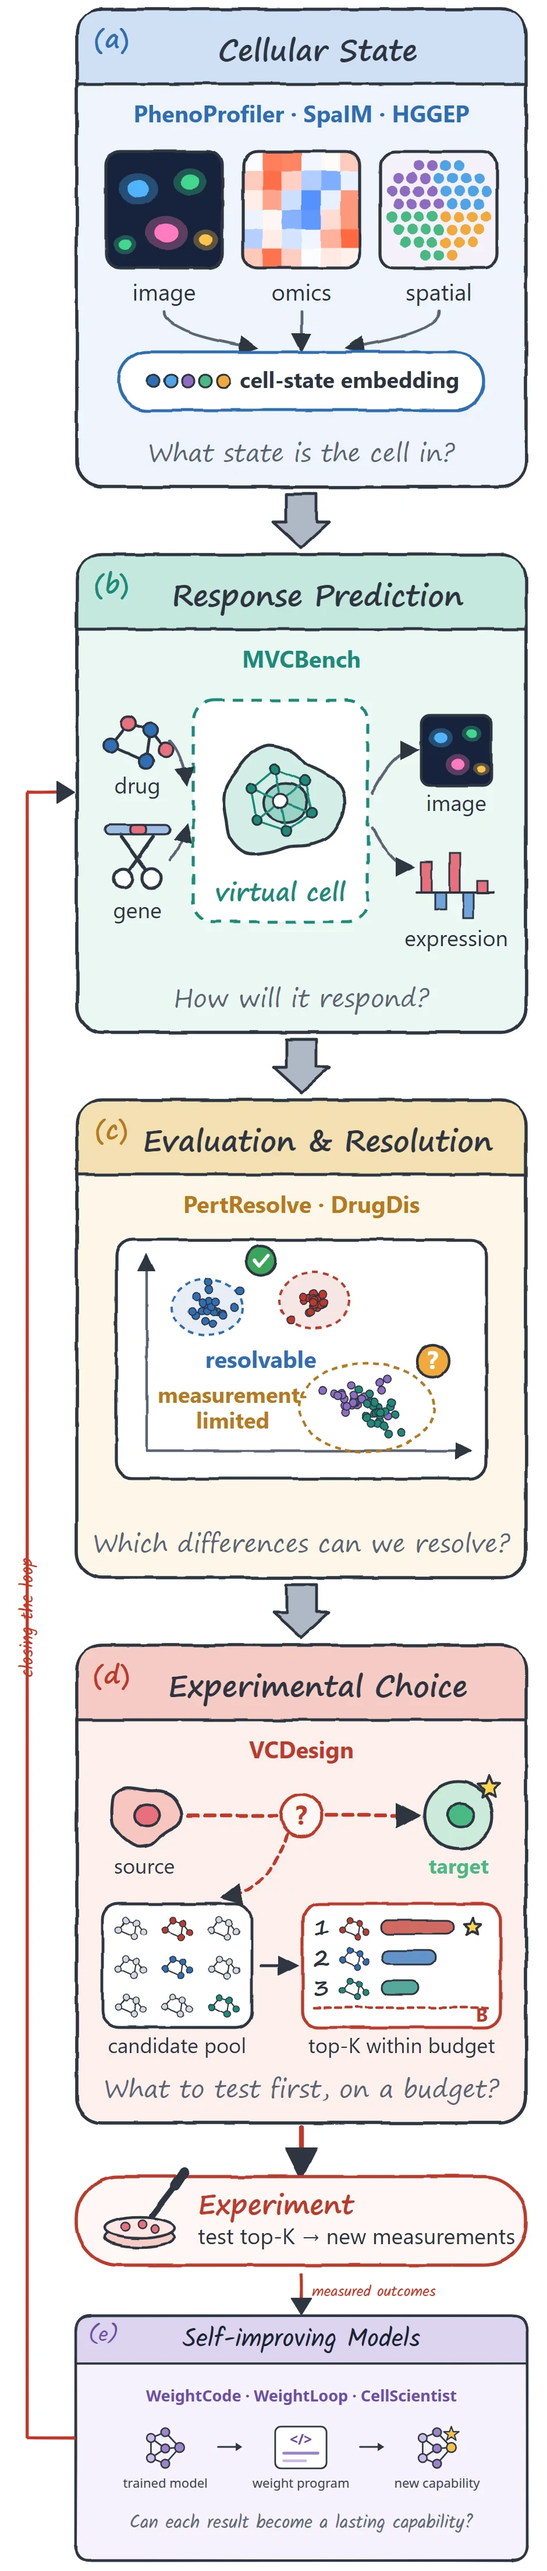
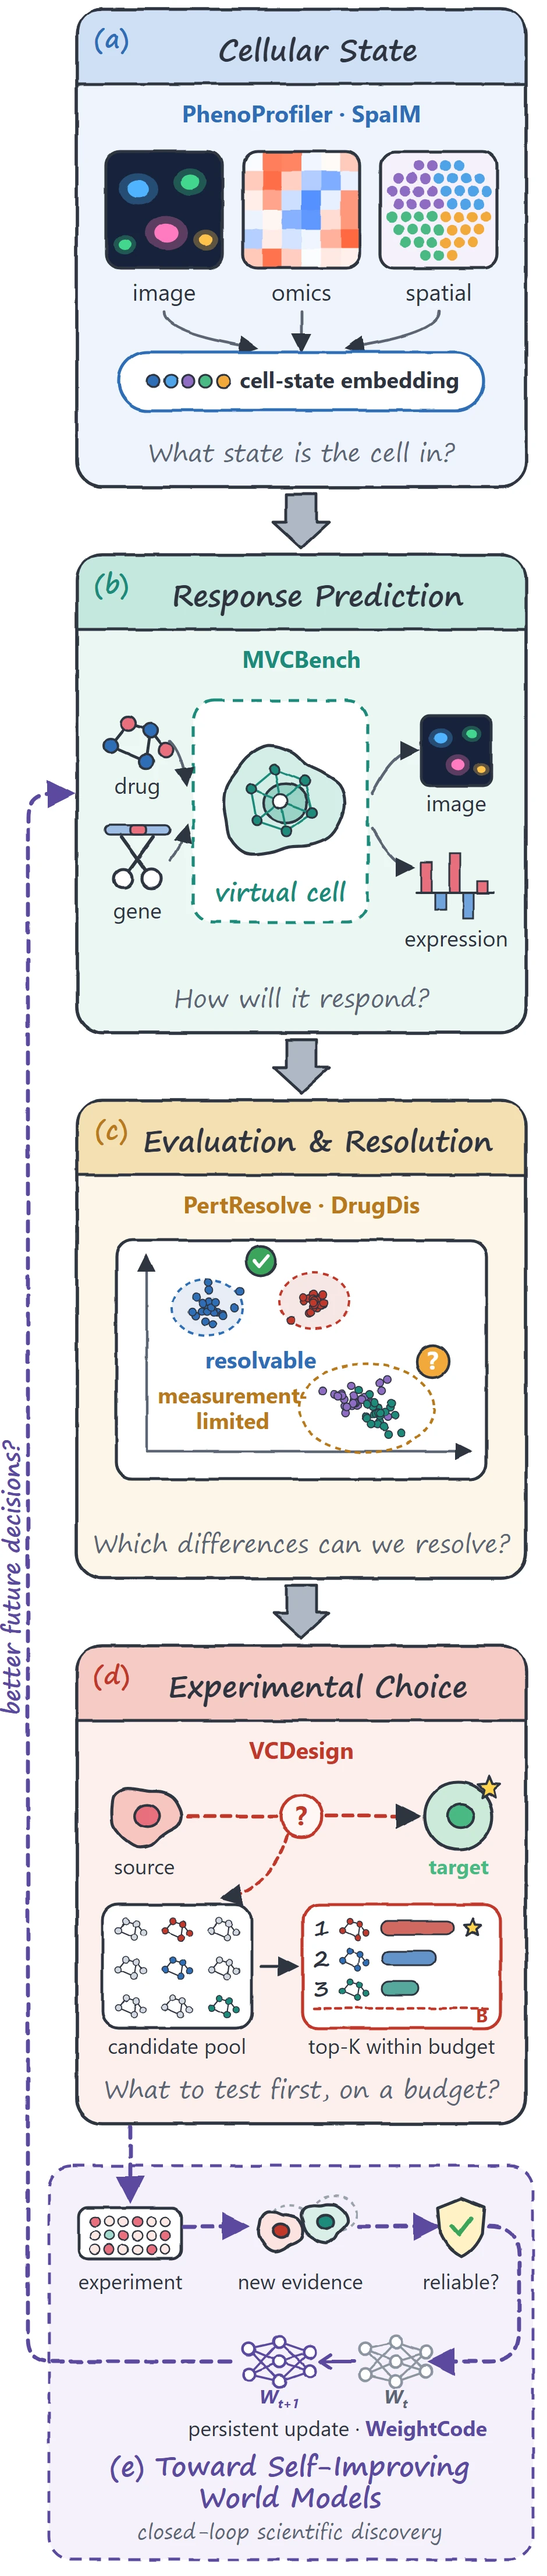
Use the CV research figure with the (e) self-improving world models band
Desktop and phone images now match the RSI CV figure; captions and alt text describe step (e).

diff --git a/_pages/about.md b/_pages/about.md
@@ -37,14 +37,14 @@ redirect_from:
 <figure class="research-figure">
   <a href="{{ '/images/research_loop.webp' | relative_url }}" title="Open the full-resolution figure">
     <picture>
-      <source media="(max-width: 40em)" srcset="{{ '/images/research_loop_vertical.webp' | relative_url }}" width="940" height="4413">
+      <source media="(max-width: 40em)" srcset="{{ '/images/research_loop_vertical.webp' | relative_url }}" width="940" height="4420">
       <img src="{{ '/images/research_loop_1200.webp' | relative_url }}"
            srcset="{{ '/images/research_loop_1200.webp' | relative_url }} 1200w, {{ '/images/research_loop.webp' | relative_url }} 2400w"
            sizes="(max-width: 57.8em) 100vw, 900px"
-           alt="Research loop in five parts: (a) cellular state learned from image, omics and spatial measurements; (b) a virtual cell predicts image and expression responses to drug and gene perturbations; (c) evaluation of which predicted differences measurements can resolve; (d) intervention design that ranks candidates by their predicted shift from a source state to a target state and tests the top-K within budget B; experiments on the selected candidates give measured outcomes, and (e) self-improving models (WeightCode, WeightLoop, CellScientist) turn them into lasting model updates that return to the virtual cell." width="1200" height="524" loading="lazy" decoding="async">
+           alt="Research loop in five parts: (a) cellular state learned from image, omics and spatial measurements; (b) a virtual cell predicts image and expression responses to drug and gene perturbations; (c) evaluation of which predicted differences measurements can resolve; (d) intervention design that ranks candidates by their predicted shift from a source state to a target state and tests the top-K within budget B; a dashed lavender band marks the future direction, (e) toward self-improving world models: experiment, new evidence, a reliability check and a persistent model update from W_t to W_t+1 (WeightCode), with a dashed arrow back to response prediction labelled better future decisions?" width="1200" height="385" loading="lazy" decoding="async">
     </picture>
   </a>
-  <figcaption><strong>From Multimodal Virtual Cells to Self-Improving Models.</strong> (a) Learn cellular state from multimodal measurements. (b) Predict responses to genetic and drug perturbations. (c) Assess which distinctions the measurements can reproducibly resolve. (d) Select interventions within a finite budget. (e) Turn measured outcomes into lasting model updates that feed the next round of prediction.</figcaption>
+  <figcaption><strong>From Multimodal Virtual Cells to Self-Improving Models.</strong> (a) Learn cellular state from multimodal measurements. (b) Predict responses to genetic and drug perturbations. (c) Assess which distinctions the measurements can reproducibly resolve. (d) Select interventions within a finite budget. (e) Future direction: turn reliable new evidence into persistent model updates, and test whether they lead to better future decisions.</figcaption>
 </figure>
 
 <ol class="research-strands">

diff --git a/_pages/zh.md b/_pages/zh.md
@@ -35,14 +35,14 @@ author_profile: true
 <figure class="research-figure">
   <a href="{{ '/images/research_loop.webp' | relative_url }}" title="查看高清原图">
     <picture>
-      <source media="(max-width: 40em)" srcset="{{ '/images/research_loop_vertical.webp' | relative_url }}" width="940" height="4413">
+      <source media="(max-width: 40em)" srcset="{{ '/images/research_loop_vertical.webp' | relative_url }}" width="940" height="4420">
       <img src="{{ '/images/research_loop_1200.webp' | relative_url }}"
            srcset="{{ '/images/research_loop_1200.webp' | relative_url }} 1200w, {{ '/images/research_loop.webp' | relative_url }} 2400w"
            sizes="(max-width: 57.8em) 100vw, 900px"
-           alt="研究闭环示意图，共五部分：(a) 从图像、组学和空间测量中学习细胞状态；(b) 虚拟细胞预测药物和基因扰动下的图像与表达响应；(c) 评估测量能够分辨哪些预测差异；(d) 按从起始状态到目标状态的预测迁移对候选干预排序，并在预算 B 内测试前 K 个；所选干预的实验给出实测结果，(e) 自我改进模型（WeightCode、WeightLoop、CellScientist）把这些结果转化为持久的模型更新，回到虚拟细胞。" width="1200" height="524" loading="lazy" decoding="async">
+           alt="研究闭环示意图，共五部分：(a) 从图像、组学和空间测量中学习细胞状态；(b) 虚拟细胞预测药物和基因扰动下的图像与表达响应；(c) 评估测量能够分辨哪些预测差异；(d) 按从起始状态到目标状态的预测迁移对候选干预排序，并在预算 B 内测试前 K 个；下方紫色虚线框是未来方向 (e) 走向自我改进的世界模型：实验、新证据、可靠性检验，再把模型从 W_t 持久更新为 W_t+1（WeightCode），虚线箭头回到响应预测，标注为更好的后续决策？" width="1200" height="385" loading="lazy" decoding="async">
     </picture>
   </a>
-  <figcaption><strong>从多模态虚拟细胞到自我改进的模型。</strong> (a) 学习多模态细胞状态；(b) 预测基因与药物扰动响应；(c) 检验测量能够可重复分辨哪些差异；(d) 在有限预算下选择下一步干预；(e) 把实测结果转化为持久的模型更新，进入下一轮预测。</figcaption>
+  <figcaption><strong>从多模态虚拟细胞到自我改进的模型。</strong> (a) 学习多模态细胞状态；(b) 预测基因与药物扰动响应；(c) 检验测量能够可重复分辨哪些差异；(d) 在有限预算下选择下一步干预；(e) 未来方向：把可靠的新实验证据转化为持久的模型更新，并检验能否带来更好的后续决策。</figcaption>
 </figure>
 
 <ol class="research-strands">

diff --git a/README.md b/README.md
@@ -82,16 +82,14 @@ in dark mode), and export both formats.
 ## Research figure
 
 `images/research_loop.webp` (2400 px), `research_loop_1200.webp` and `research_loop_vertical.webp` (phones)
-are generated; do not edit them by hand. Panels (a)–(d) come from the original four-panel artwork kept in
-[`docs/figure-src/`](docs/figure-src/), and the loop band with strand (e) is drawn by the script:
+are exported from the CV figure, so the homepage and the CV show the same picture; do not edit them by hand.
+The source is `make_research_loop.py` in the CV project (outside this repository), drawn as SVG and
+rendered at 3x (wide) and 2x (vertical) with `LOOP=rsi`; Pillow then writes the WebP files.
 
-```bash
-python3 scripts/build_research_figure.py --chrome /usr/bin/google-chrome
-```
-
-It needs Pillow, Playwright and a Chrome/Chromium (omit `--chrome` to use Playwright's bundled browser), and
-network access for the Kalam / Noto Sans fonts and rough.js. When the image heights change, update the
-`width`/`height` attributes of the figure in `_pages/about.md` and `_pages/zh.md`.
+`scripts/build_research_figure.py` and `docs/figure-src/` build the earlier version of the figure, whose
+(e) box listed WeightCode, WeightLoop and CellScientist. Running it would overwrite the CV-matched images.
+When the image heights change, update the `width`/`height` attributes of the figure in `_pages/about.md`
+and `_pages/zh.md`.
 
 ## Dark mode
 
